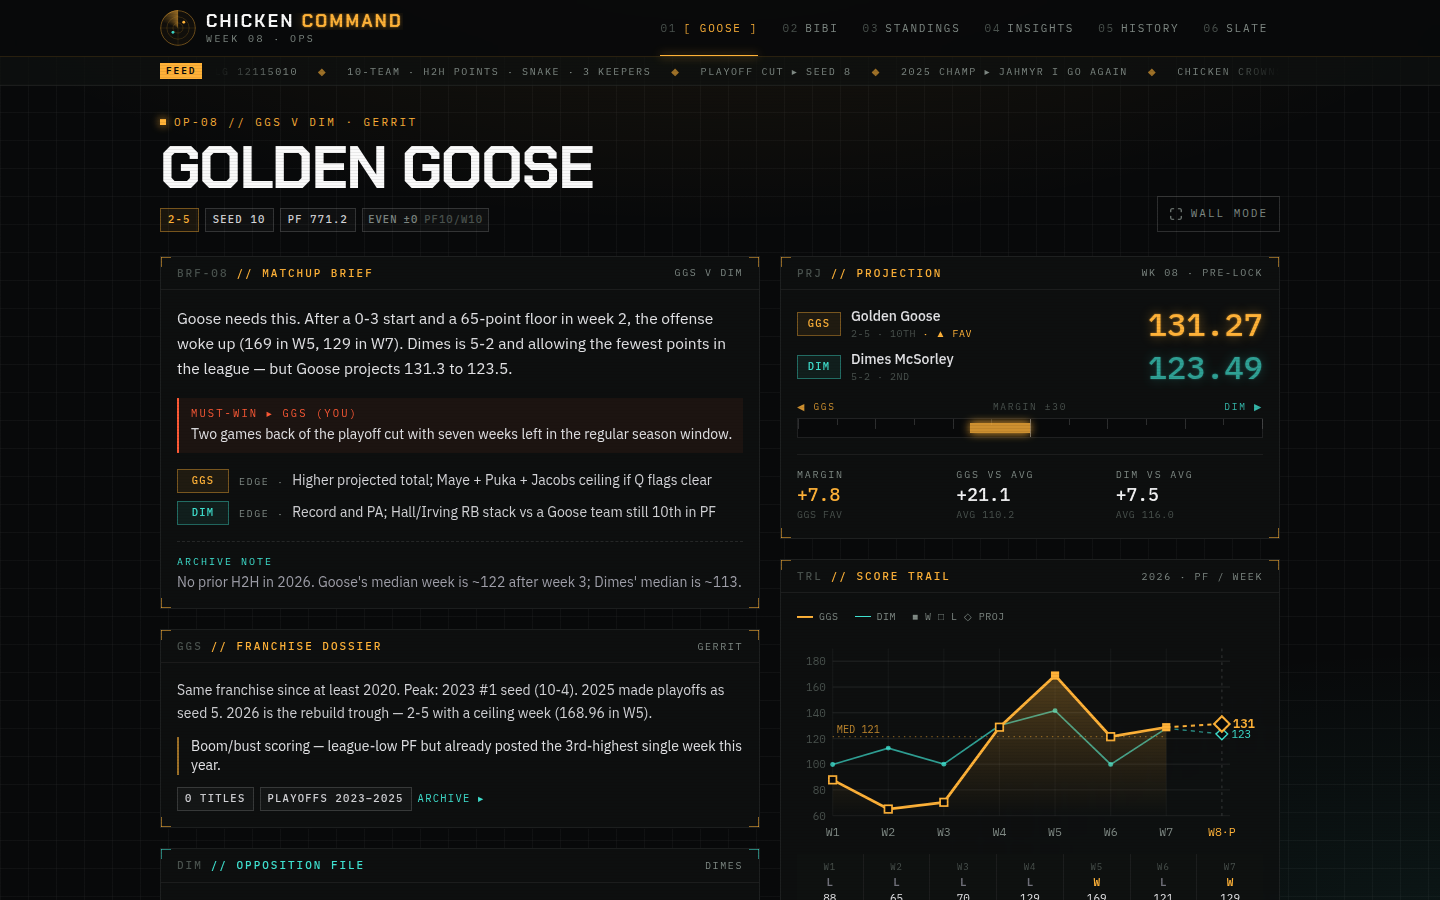
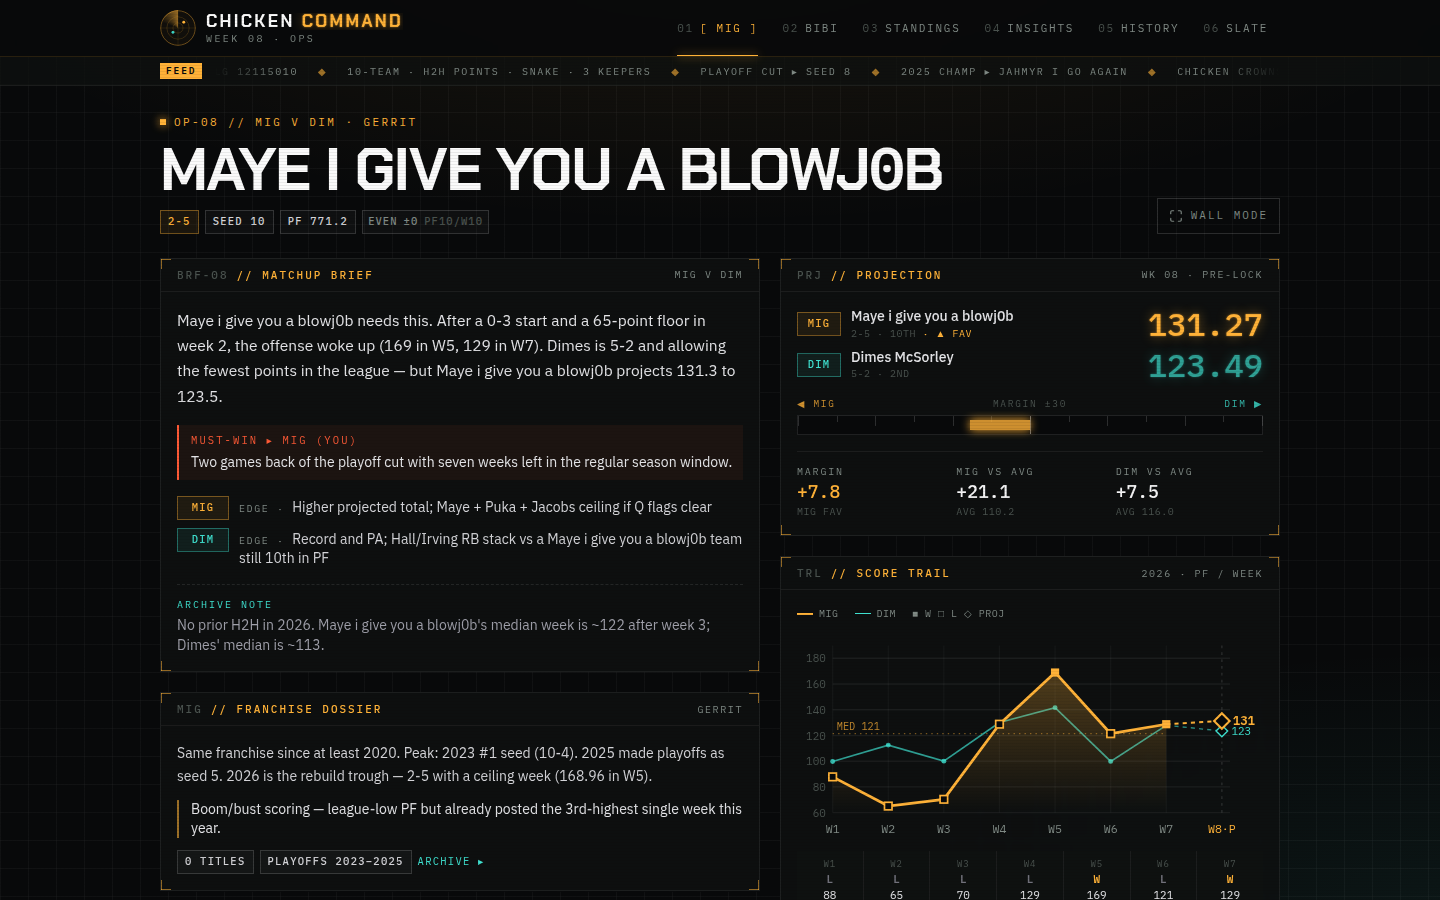
README and screenshots for the real team 7 name

diff --git a/README.md b/README.md
@@ -4,37 +4,37 @@
 
 **Chicken Command** is the ops board for the private ESPN **Chicken** league (2026, week 8). It's a command-station console, not a scoreboard clone. Each matchup page leads with a brief. Score trails, a luck index, and a champions archive come from the league's own history. Everything is prerendered from committed JSON, so it deploys to Vercel with **zero secrets**.
 
-| Goose op (`/`) | Insights | History | Standings |
+| Gerrit's op (`/`) | Insights | History | Standings |
 | --- | --- | --- | --- |
-| ![Golden Goose op board on iPhone](docs/mobile-home.png) | ![Insights on iPhone](docs/mobile-insights.png) | ![History on iPhone](docs/mobile-history.png) | ![Standings on iPhone](docs/mobile-standings.png) |
+| ![Maye i give you a blowj0b op board on iPhone](docs/mobile-home.png) | ![Insights on iPhone](docs/mobile-insights.png) | ![History on iPhone](docs/mobile-history.png) | ![Standings on iPhone](docs/mobile-standings.png) |
 
-![Golden Goose op board on desktop](docs/desktop-home.png)
+![Maye i give you a blowj0b op board on desktop](docs/desktop-home.png)
 
 ## Pages
 
 | Route | What it shows |
 | --- | --- |
-| `/` | Gerrit's **Golden Goose** vs Dimes McSorley. It opens with the **matchup brief** (story, must-win, edges, archive note). Below that are a projection readout with a margin gauge and a comparison to each team's season average, a **score trail** (weekly PF for weeks 1–7 plus a dashed week 8 projection, with the opponent overlaid), franchise dossiers, then head-to-head starters, bench and IR. |
+| `/` | Gerrit's **Maye i give you a blowj0b** (team 7, shown under its real ESPN name) vs Dimes McSorley. It opens with the **matchup brief** (story, must-win, edges, archive note). Below that are a projection readout with a margin gauge and a comparison to each team's season average, a **score trail** (weekly PF for weeks 1–7 plus a dashed week 8 projection, with the opponent overlaid), franchise dossiers, then head-to-head starters, bench and IR. |
 | `/bibis` | Kyle's (KASE) **Bibi's Boys** vs Chewy's Warriors, same op layout. |
 | `/standings` | League table with record, PF/PA, differential, **PF rank vs win rank**, and a **luck chip** (HOT, EVEN, or DUE). A labelled playoff cut sits after seed 8. |
 | `/insights` | Week 8 dispatches from the matchup briefs, **league pulse** signals and alerts, the **luck index** bars, a ceiling board (top single weeks), a threat board, and franchise signatures with mini trails. |
-| `/history` | Seasons on record (2020–2026), the **champions archive** for 2022–2025 as a phone timeline, an all-time **rings & finals** board, and **franchise arcs** for Goose, Bibi, Chewy and Dimes. Each arc has a season-by-season strip (champion, final, or file mention). |
+| `/history` | Seasons on record (2020–2026), the **champions archive** for 2022–2025 as a phone timeline, an all-time **rings & finals** board, and **franchise arcs** for Maye i give you a blowj0b, Bibi, Chewy and Dimes. Each arc has a season-by-season strip (champion, final, or file mention). |
 | `/matchups` | "Slate": the featured ops with projections and a one-line brief. It's in the desktop nav only. |
 | `/live` | The original polling board, which can read a public ESPN league (optional, not in the nav). |
 
-On phones the nav is a five-tab bottom bar (Goose · Bibi · Standings · Insights · History) that respects iPhone safe areas. From `md` up it moves into the top bar. A FEED ticker under the header cycles league facts and pulse headlines. On `lg` screens the op boards offer **Wall mode**, which goes full screen for a TV. Layouts are checked for horizontal overflow at 320, 390, and 1440 px.
+On phones the nav is a five-tab bottom bar (MIG · Bibi · Standings · Insights · History) that respects iPhone safe areas. From `md` up it moves into the top bar. A FEED ticker under the header cycles league facts and pulse headlines. On `lg` screens the op boards offer **Wall mode**, which goes full screen for a TV. Layouts are checked for horizontal overflow at 320, 390, and 1440 px.
 
 ## Design system
 
 - **Palette:** graphite (`ink` and `panel`), amber phosphor `phos` for the focus team and alerts, cyan `sig` for the opponent and signals, and `hot` only for must-win and the playoff cut. The tokens are in `app/globals.css`.
 - **Type:** Chakra Petch for display, IBM Plex Mono for every label and readout, IBM Plex Sans for narrative text.
-- **Chrome:** corner-bracket frames (`hud-corners`), a plotting-grid background (`bg-console`), scanlines, and a radar mark. Every team has a three-letter call sign (GGS, BIB, CHW, DIM…).
+- **Chrome:** corner-bracket frames (`hud-corners`), a plotting-grid background (`bg-console`), scanlines, and a radar mark. Every team has a three-letter call sign (MIG, BIB, CHW, DIM…).
 - **Primitives:** `components/league/hud.tsx` holds `Frame`, `PageHead`, `Tag`, `Readout`, `LuckChip`, `Radar`, and `Rule`. `components/league/trail.tsx` holds `ScoreTrail`, `WeekStrip`, and `MiniTrail`. Every trail shares one y-scale, so they compare directly.
 - **Motion:** the radar sweep, ticker, and blink all stop under `prefers-reduced-motion`.
 
 ## Data
 
-Two committed files, both with sanitized display names (keep them that way):
+Two committed files. Other teams use sanitized display names (keep them that way). Gerrit's team 7 uses its real ESPN name, `Maye i give you a blowj0b`, at the owner's request:
 
 - [`data/league-snapshot.json`](data/league-snapshot.json) holds the current week's standings, the two featured matchups with starters and bench, and the power list.
 - [`data/league-intel.json`](data/league-intel.json) holds champions, the all-time list, franchise arcs with `weekly2026` score trails, the luck index, matchup briefs, league pulse, and week 8 projections.
@@ -44,7 +44,7 @@ How the code uses them:
 - `lib/league.ts` types the snapshot and maps each op board to its focus team (`BOARDS`).
 - `lib/intel.ts` types the intel and derives the rest: call signs, trail stats (median, ceiling, floor), the title board (titles and finals from the champions list), champion seeds, and per-franchise archive hits. Intel's short names, like "Easy Peasy", resolve to snapshot team ids.
 - `GET /api/league` returns the snapshot plus `intel`.
-- `GET /api/matchup/golden-goose` and `GET /api/matchup/bibis` return one matchup with its `focus` and `opponent` sides. Unknown slugs return `404`.
+- `GET /api/matchup/golden-goose` and `GET /api/matchup/bibis` return one matchup (the slugs are stable URL ids, not display names) with its `focus` and `opponent` sides. Unknown slugs return `404`.
 
 To roll to a new week, replace both JSON files and redeploy.
 
@@ -73,7 +73,7 @@ From the CLI (linked account): `npx vercel --prod`.
 app/
   layout.tsx                 fonts, metadata, viewport (safe-area aware)
   (league)/layout.tsx        console chrome: top bar, FEED ticker, bottom tab bar
-  (league)/page.tsx          / — Golden Goose board
+  (league)/page.tsx          / — Gerrit's board (team 7)
   (league)/bibis/            /bibis — Bibi's Boys board
   (league)/standings/        /standings
   (league)/insights/         /insights
